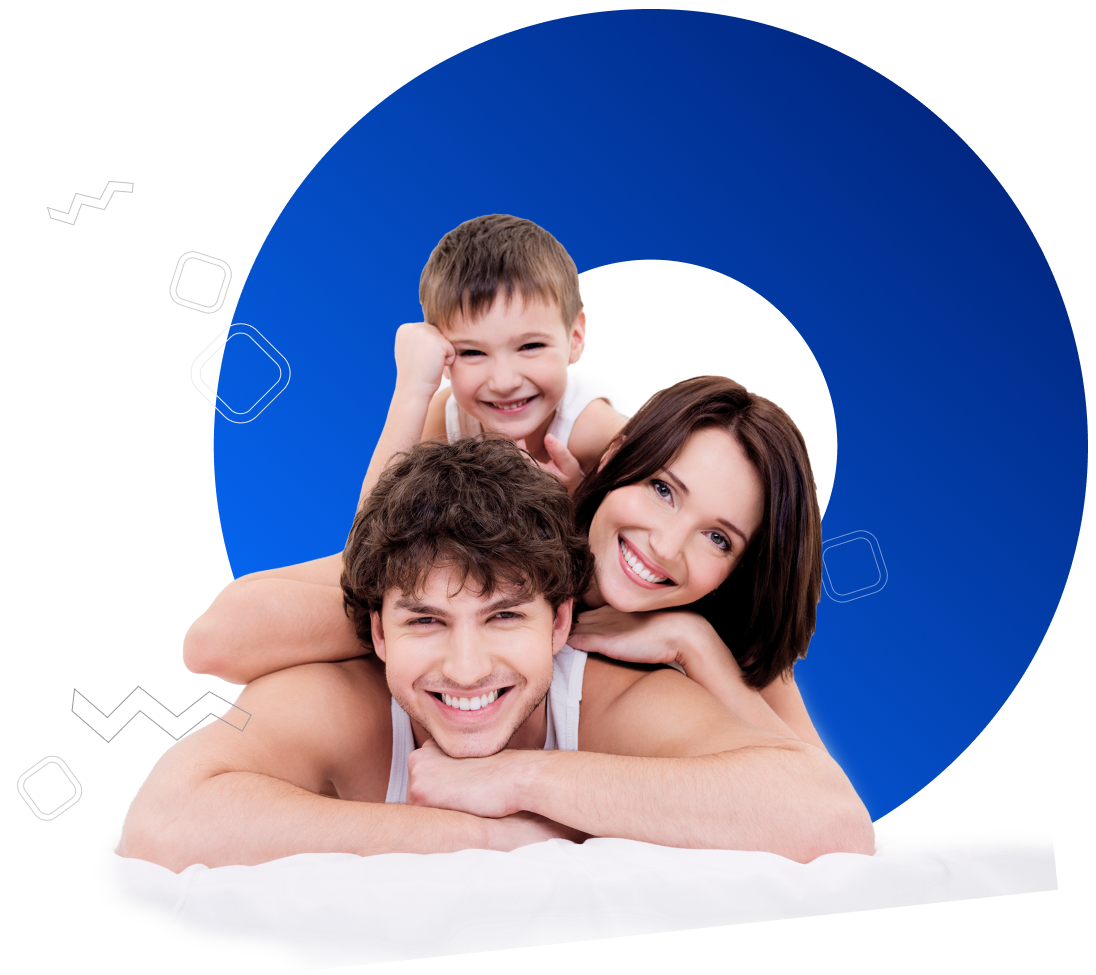
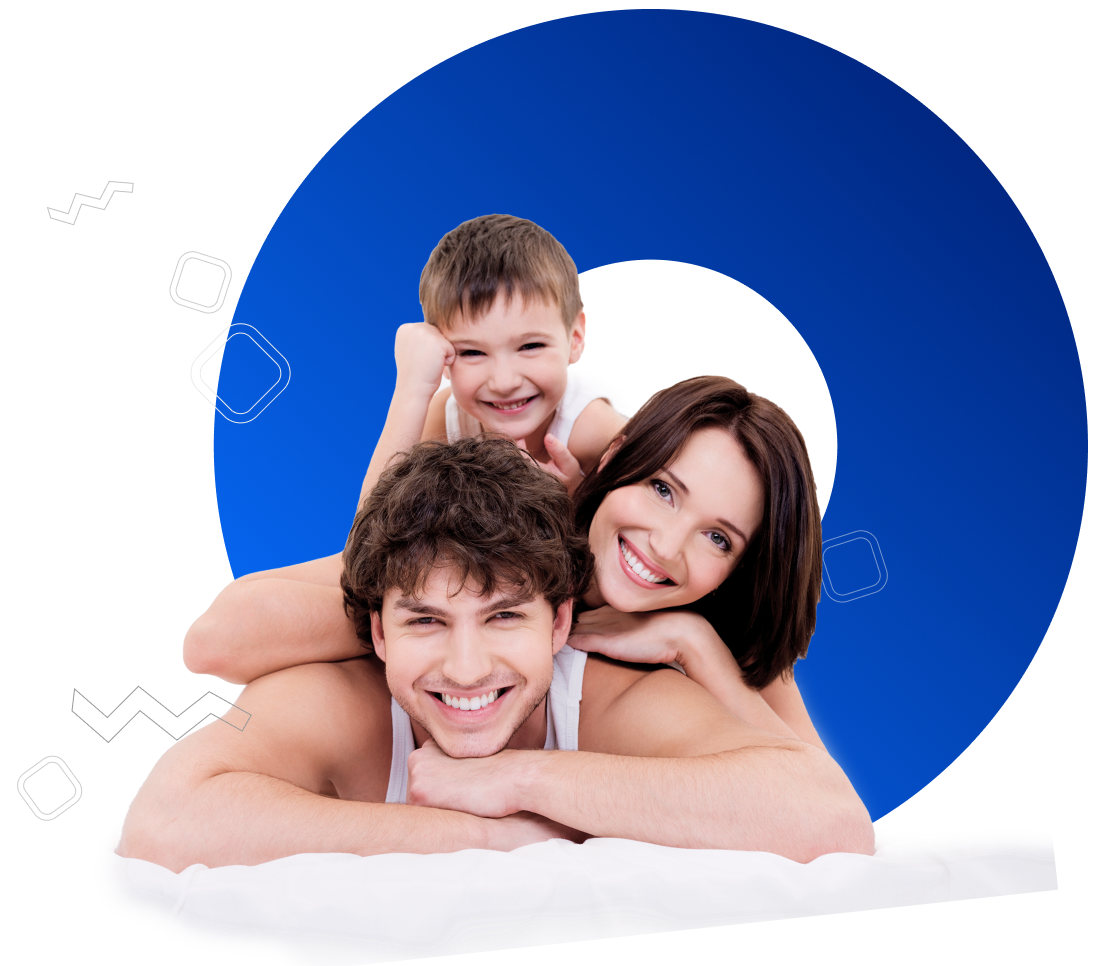
sin espacio abajo de la imagen del header

diff --git a/landingpage-3.html b/landingpage-3.html
@@ -18,7 +18,7 @@
     <h1 class="d-md-none">Invierte de forma<br><span class="azul">simple y segura</span><br>con nuestro recomendador<br>financiero</h1>
     <h1 class="d-none d-md-block">Invierte de forma<br><span class="azul">simple y segura</span> con<br>nuestro recomendador<br>financiero</h1>
     <button class="btn rounded-pill fondo-azul-2 px-5">Quiero saber más</button>
-    <img src="assets/img/imagen-header-3-movil.png" alt="" class="d-sm-none img-fluid pr-4 mb-5 pb-4">
+    <img src="assets/img/imagen-header-3-movil.png" alt="" class="d-sm-none img-fluid pr-4">
   </header>
 
   <section class="imagen-planifica p-4 p-lg-5">

diff --git a/landingpage-2.html b/landingpage-2.html
@@ -18,7 +18,7 @@
     <h1><span class="azul">Invierte</span> de forma<br>simple y a tu<br>medida.</h1>
     <p class="parrafo-header pr-5 mr-5">Invierte en un click y cumple tus sueños.</p>
     <button class="btn rounded-pill fondo-azul-2 px-5">Quiero saber más</button>
-    <img src="assets/img/imagen-header-2-movil.png" alt="" class="d-sm-none img-fluid pr-4 mb-5 pb-4">
+    <img src="assets/img/imagen-header-2-movil.png" alt="" class="d-sm-none img-fluid pr-4">
   </header>
 
   <section class="imagen-planifica p-4 p-lg-5">
